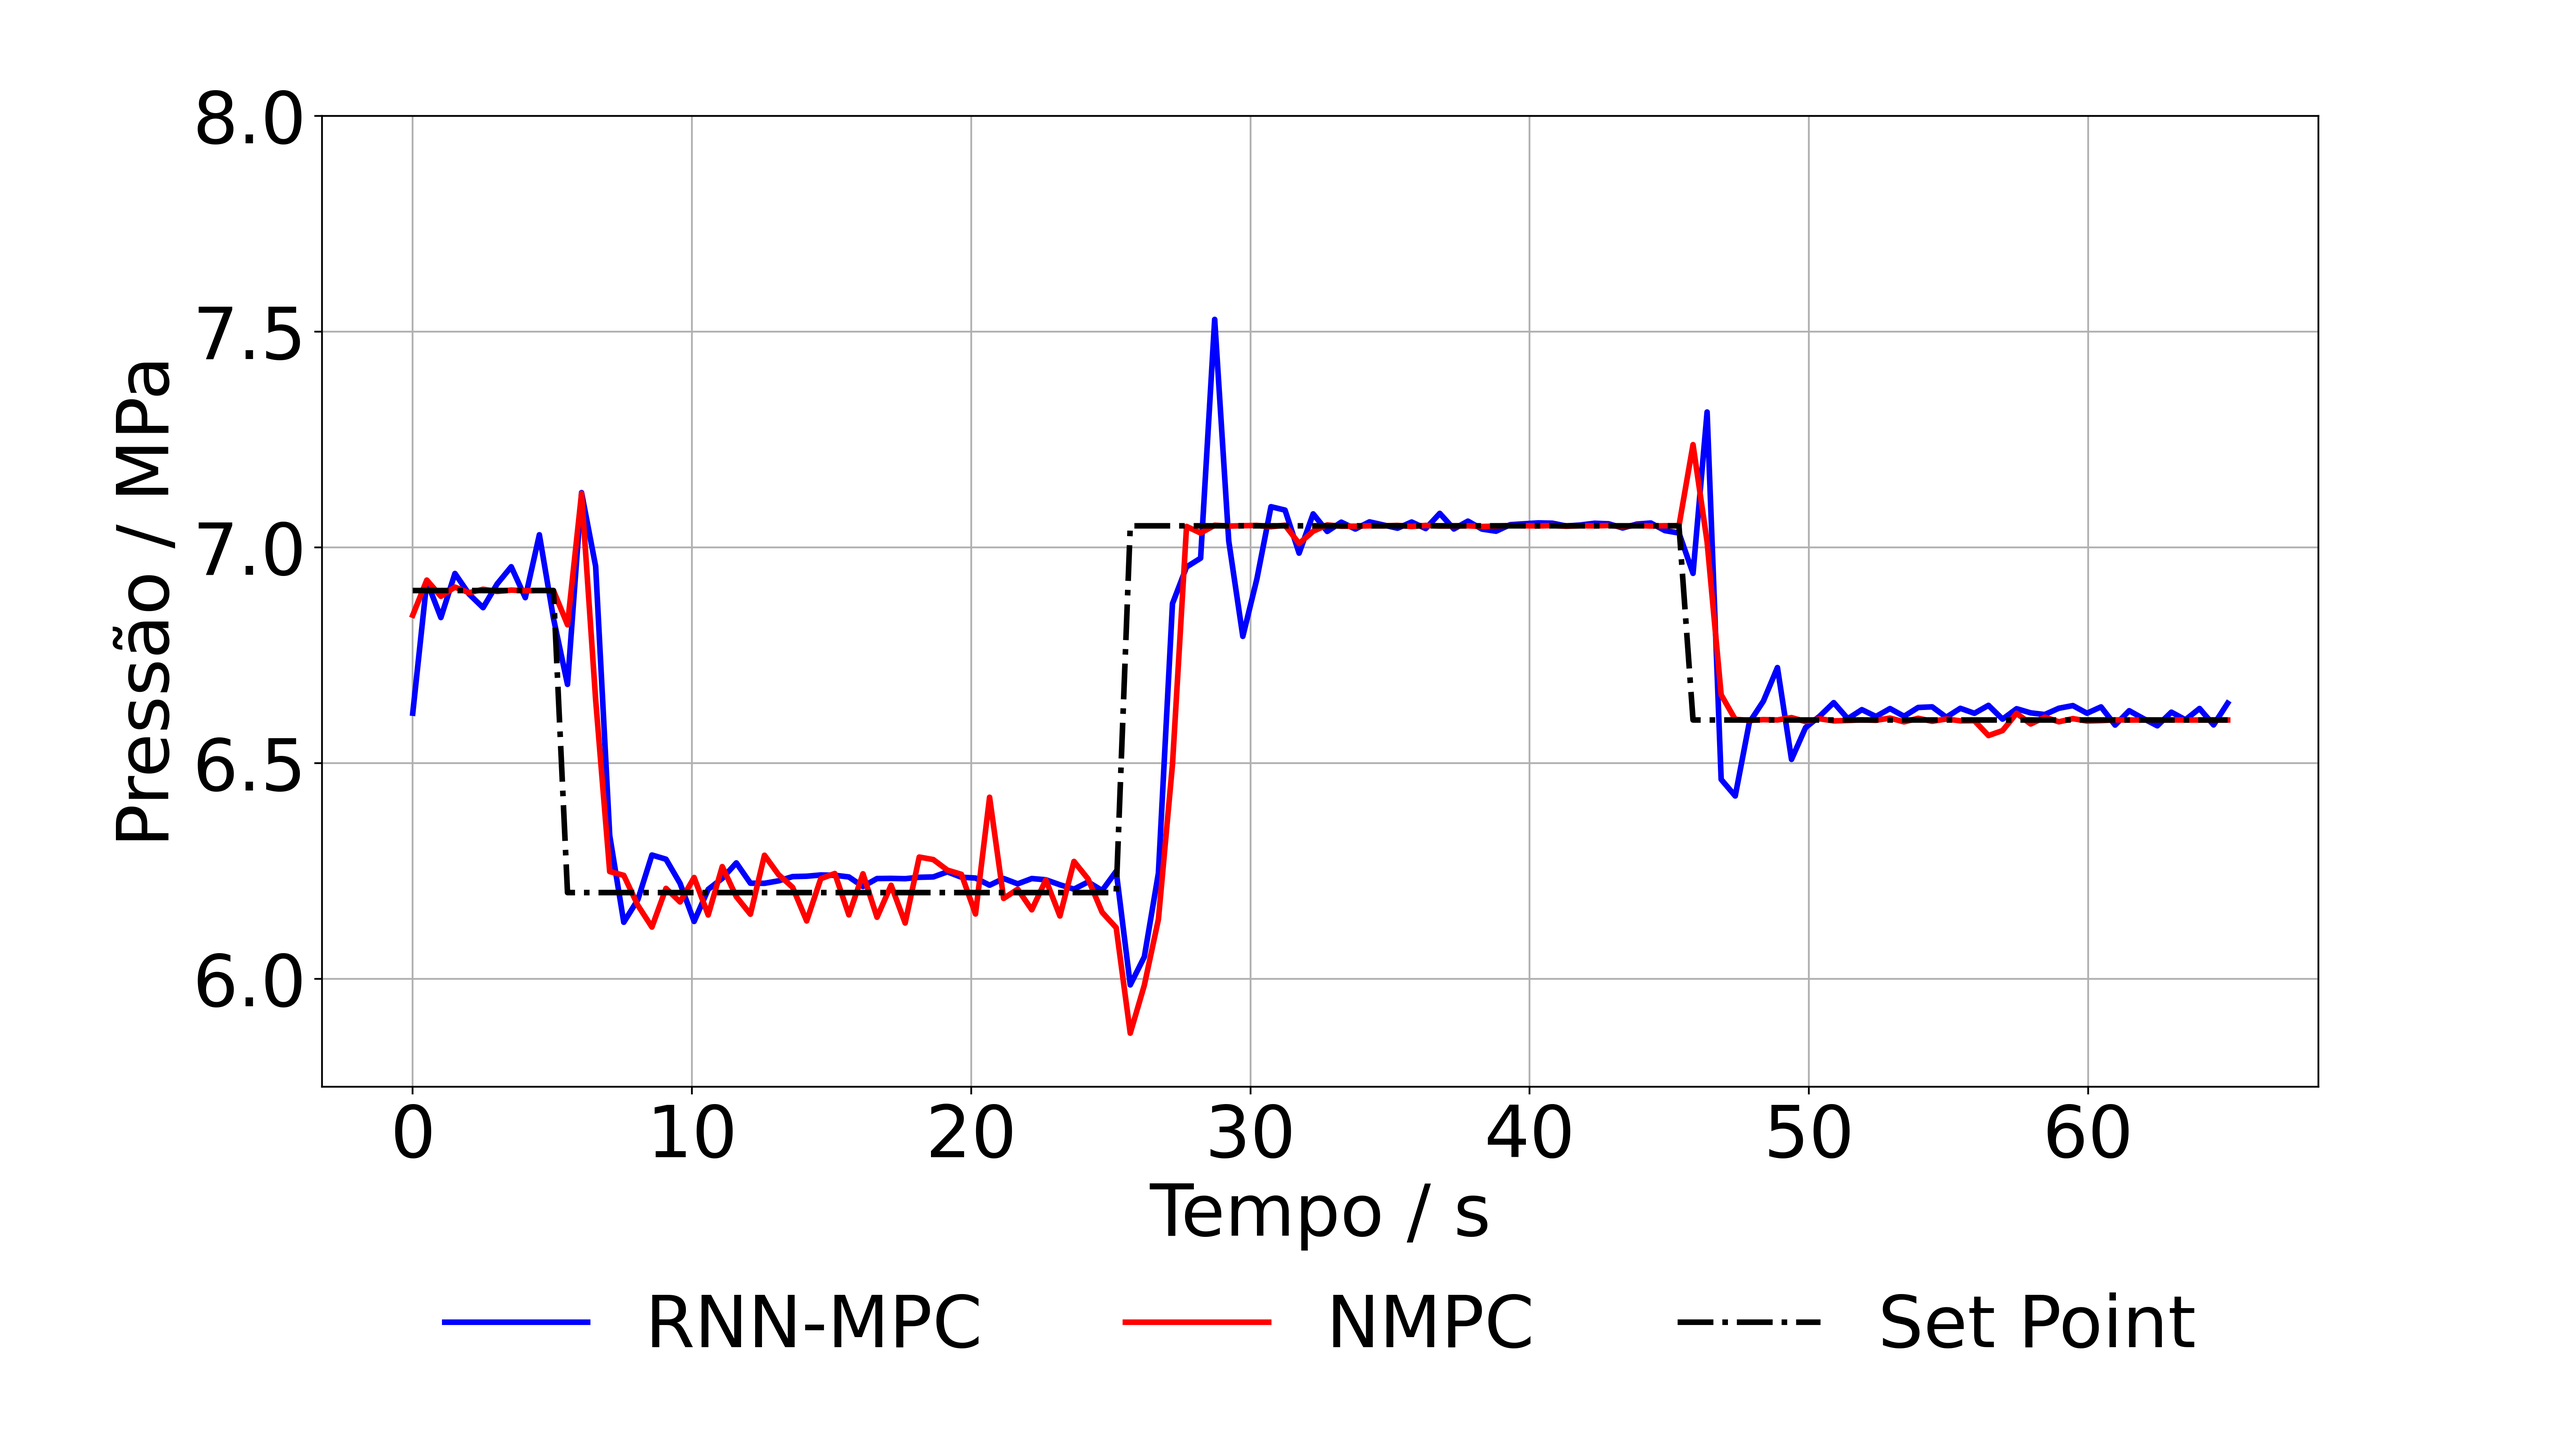
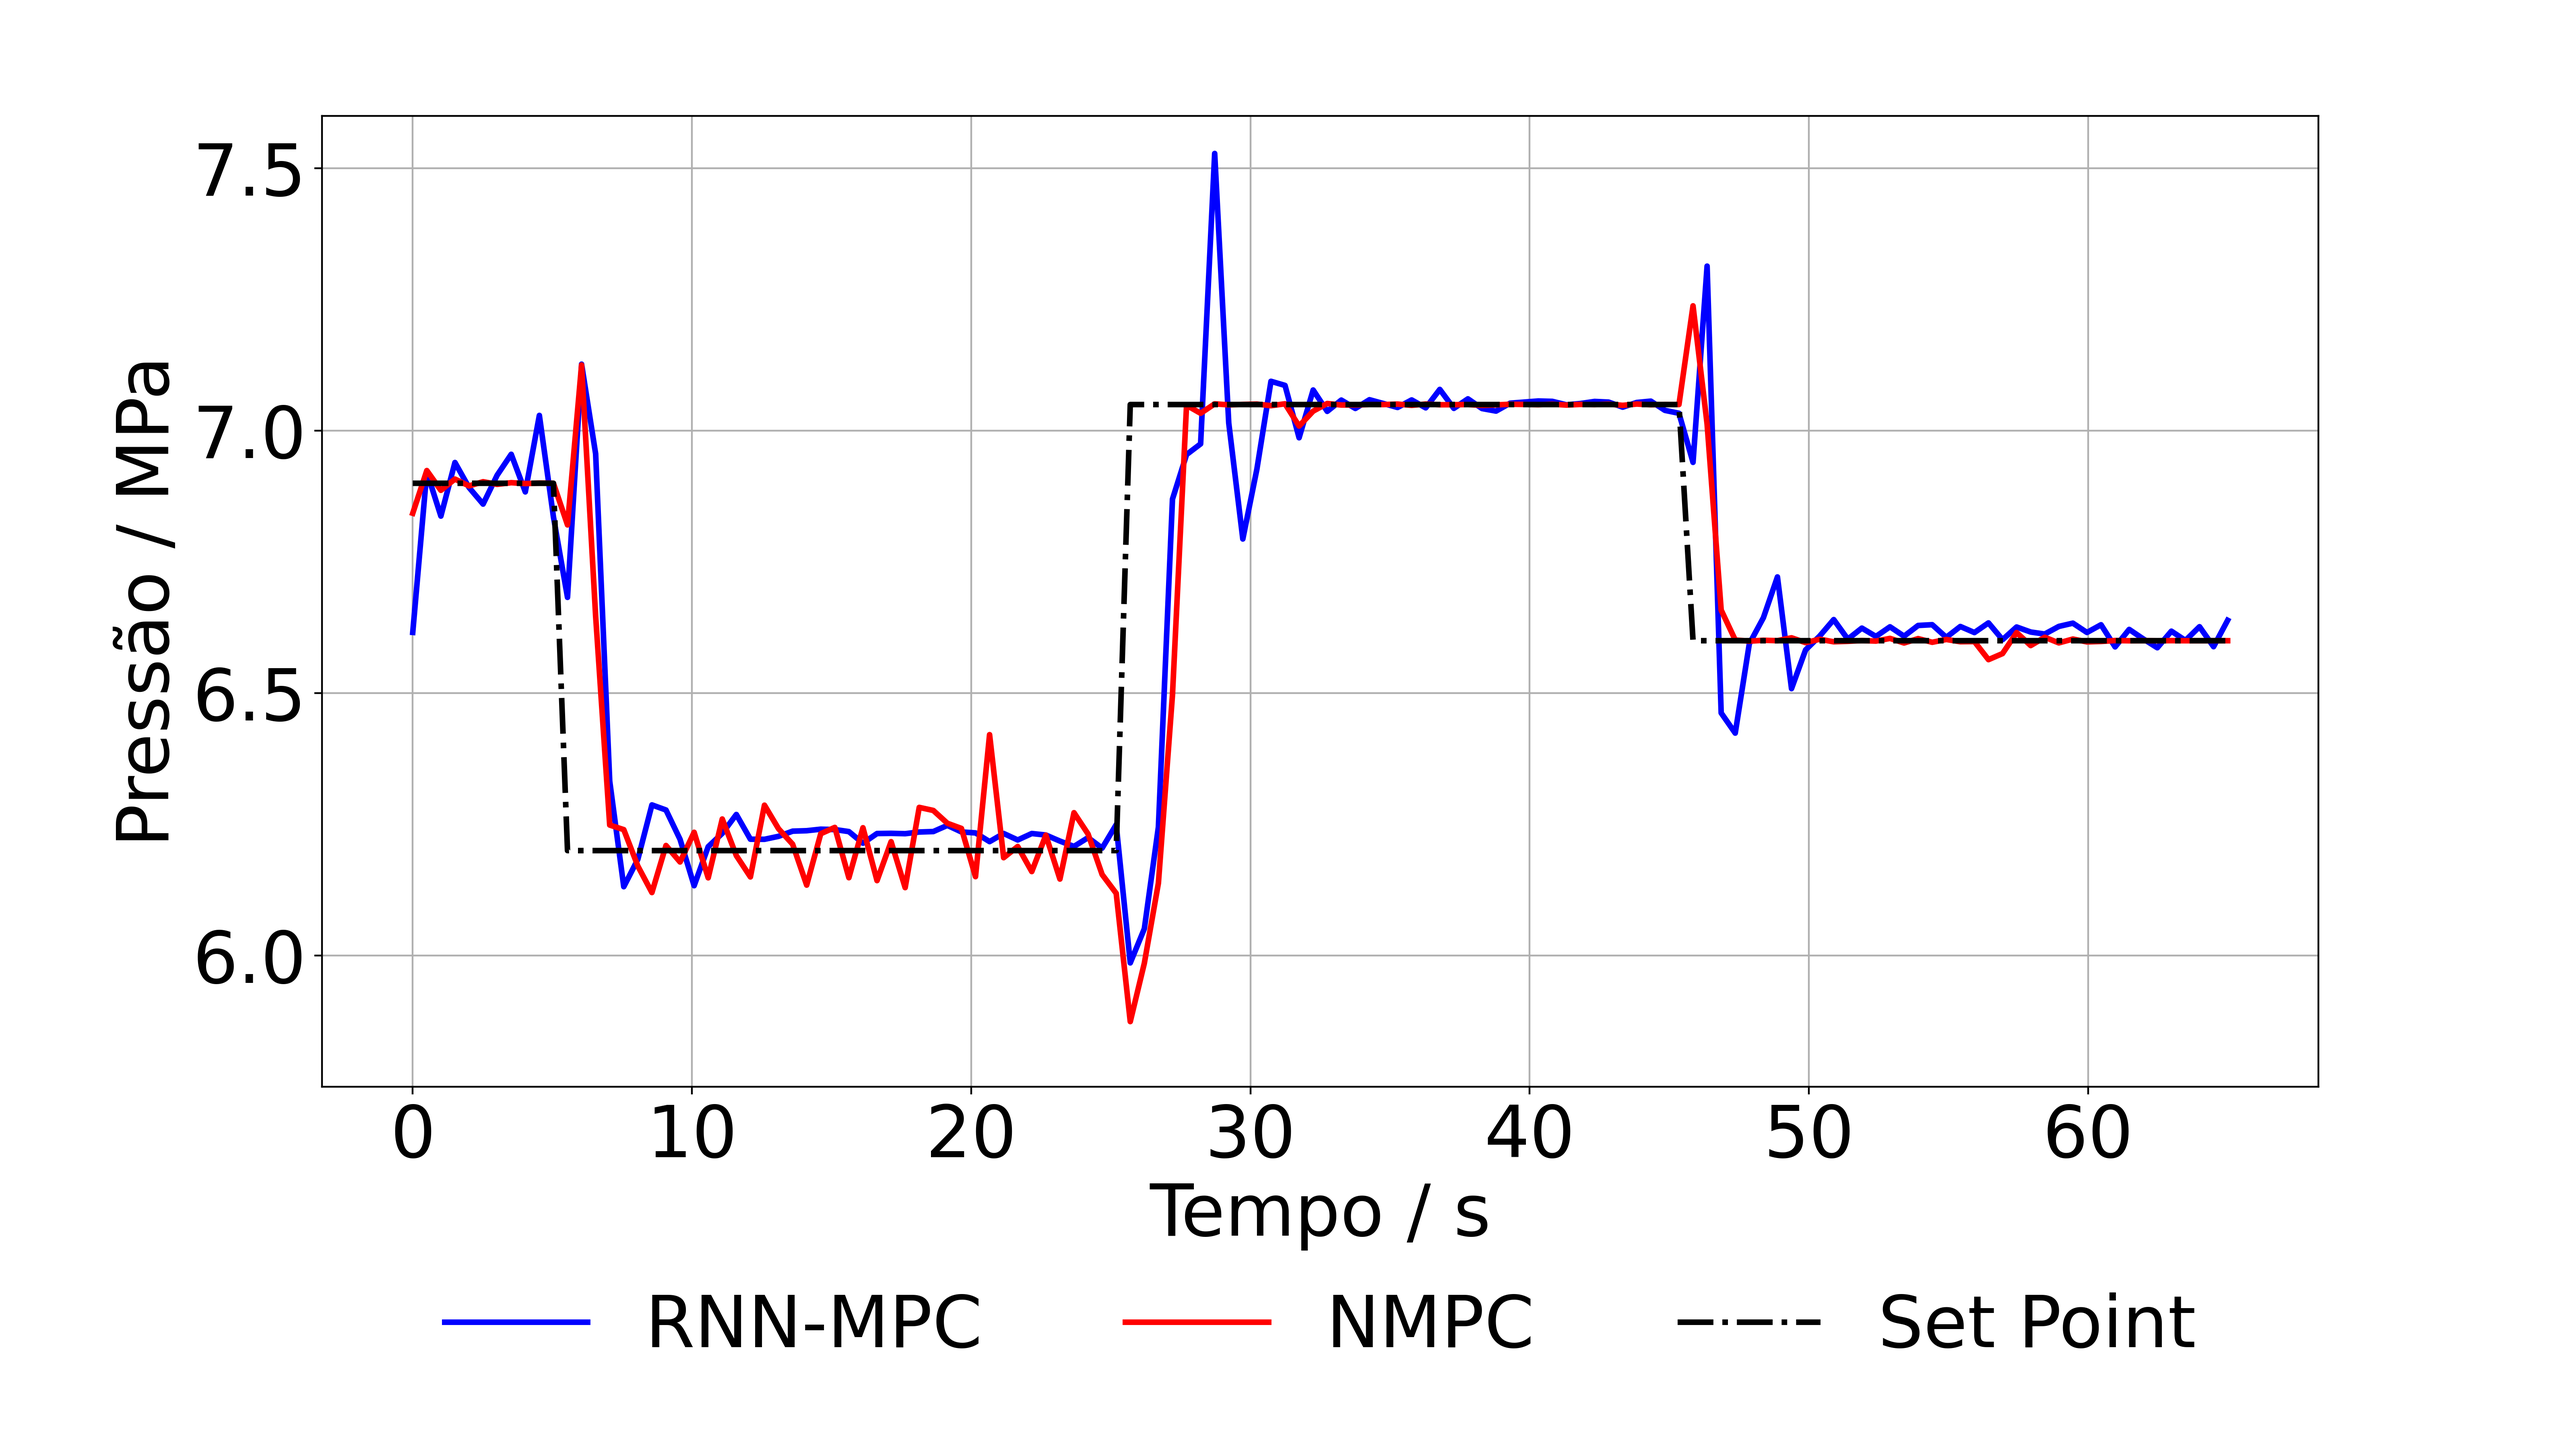
mudança de escala

diff --git a/NNMPC/Compare.py b/NNMPC/Compare.py
@@ -52,7 +52,7 @@ def superPlot(iter_NN, Ymk_NN,
     plt.ylabel("Vazão / kg/s")
     plt.xlabel("Tempo / s")
     plt.grid()
-    plt.ylim(6, 10.5)
+    plt.ylim(6.5, 10)
     plt.legend(
             loc='lower center',
             bbox_to_anchor=(0.5, -0.35),  # Posiciona a legenda abaixo do gráfico
@@ -90,7 +90,7 @@ def superPlot(iter_NN, Ymk_NN,
     plt.ylabel("Pressão / MPa")
     plt.xlabel("Tempo / s")
     plt.grid()
-    plt.ylim(5.75, 8)
+    plt.ylim(5.75, 7.6)
     plt.legend(
             loc='lower center',
             bbox_to_anchor=(0.5, -0.35),  # Posiciona a legenda abaixo do gráfico
